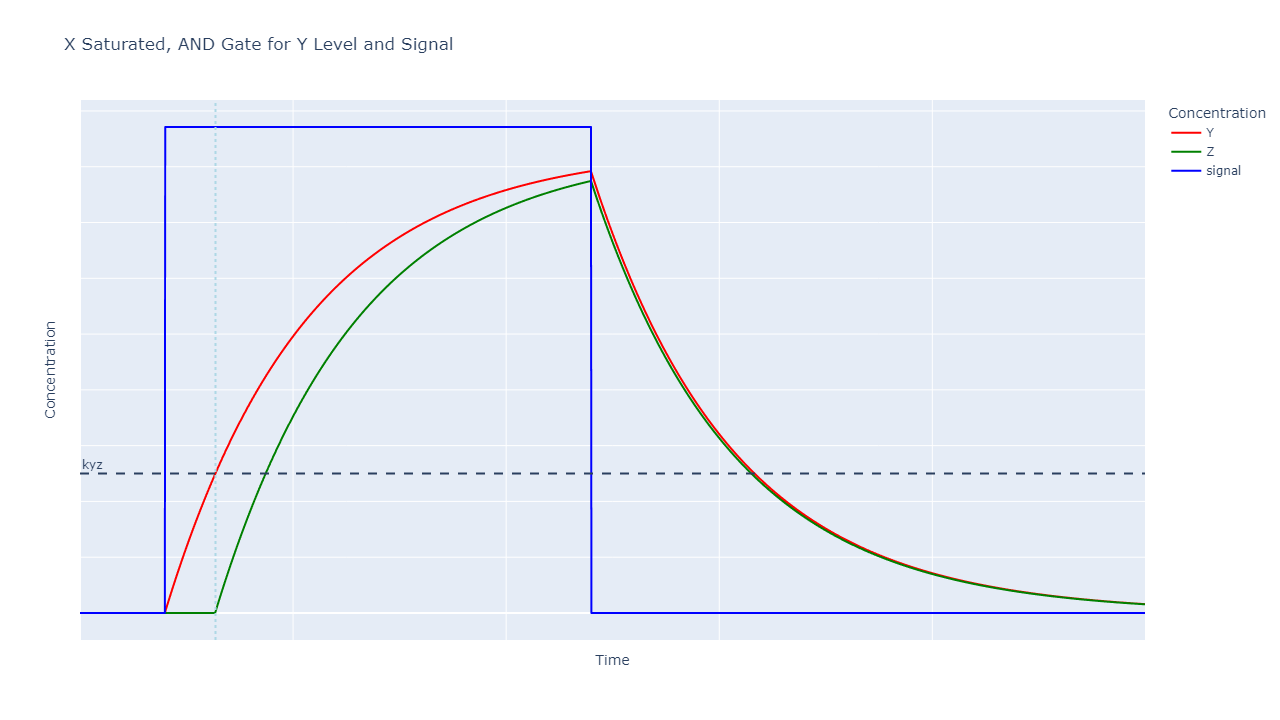
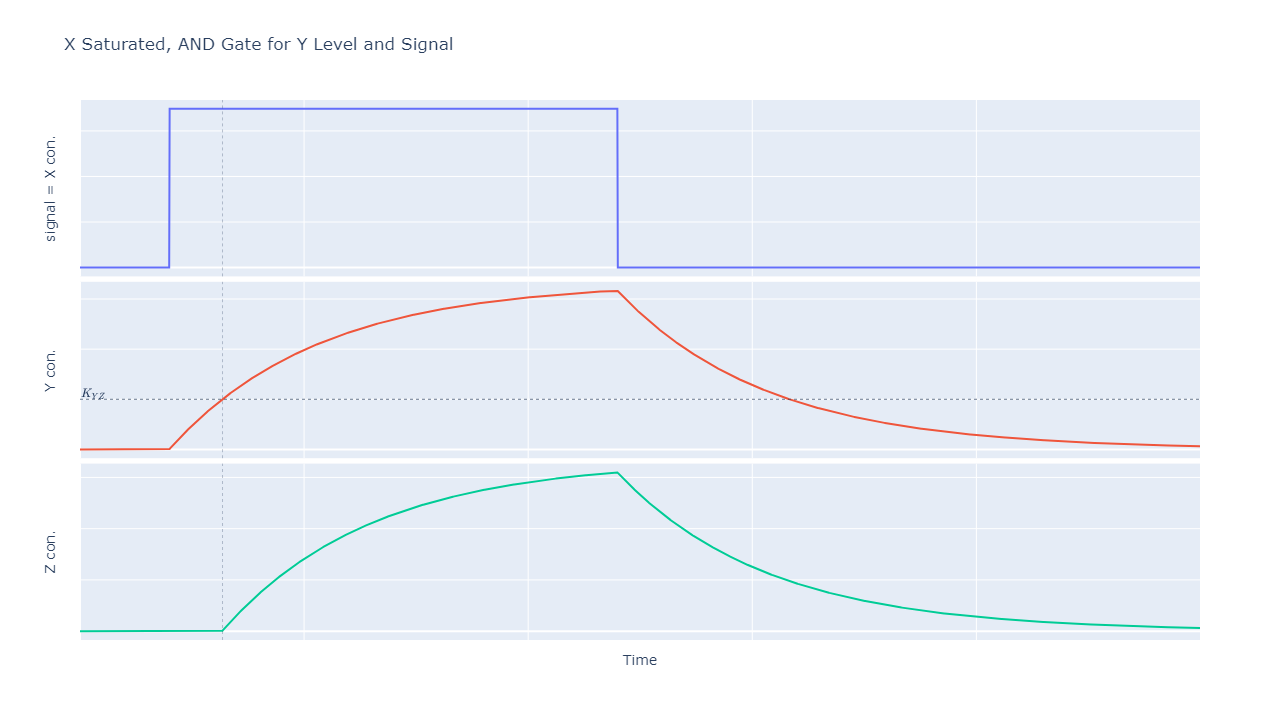
stacked nice graphs, remove _set_color

diff --git a/ex2/q1.py b/ex2/q1.py
@@ -11,12 +11,6 @@ TOTAL_TIME = 2.5
 PLOT_PATH = r"lyx_files\plots"
 SAVE_PLOTS = True
 
-COLORS = {"X": "purple",
-          "Y": "red",
-          "Z": "green",
-          "signal": "blue"
-}
-
 
 def simulate_negative_autoregulation(max_rate: float, degradation_rate: float, kd: float, hill_coef: int,
                                      total_time: float, dt: float):
@@ -121,10 +115,6 @@ def plot_stacked_q4(data, fig_name, title, y_axis_titles, **kwargs):
     fig.show()
     if SAVE_PLOTS:
         fig.write_image(os.path.join(PLOT_PATH, fig_name), width=1280, height=720)
-
-
-def _set_color(shape):
-    shape.line.color = COLORS[shape.name]
 
 
 def q1a(kd, hill_coef, max_rate, degradation_rate):
